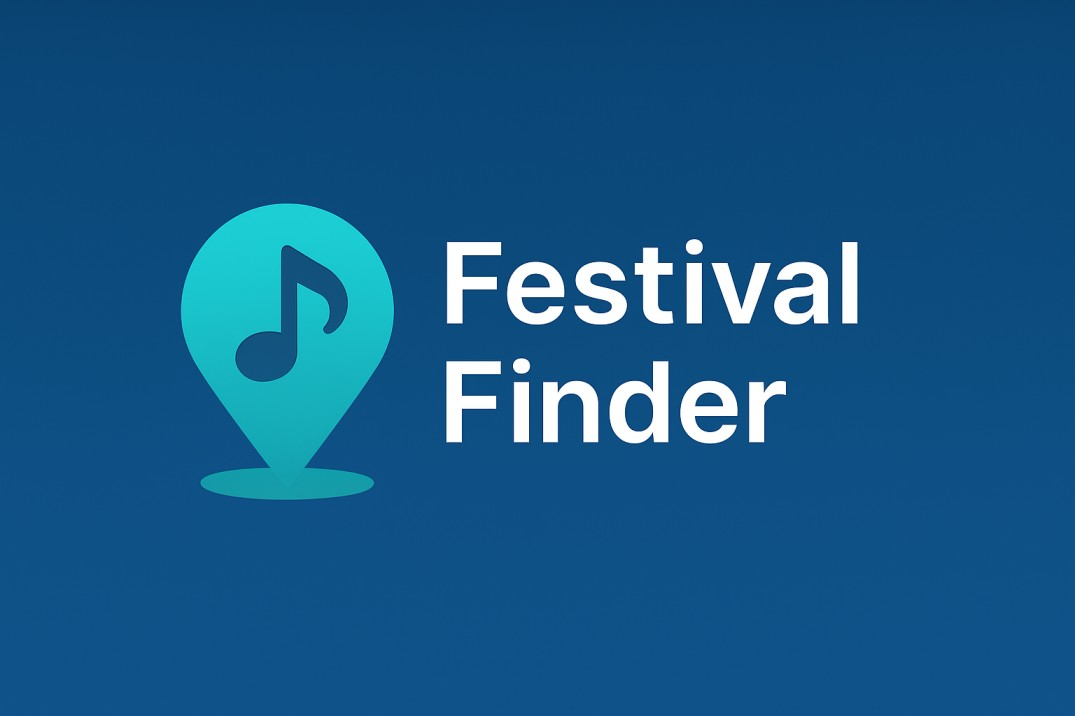
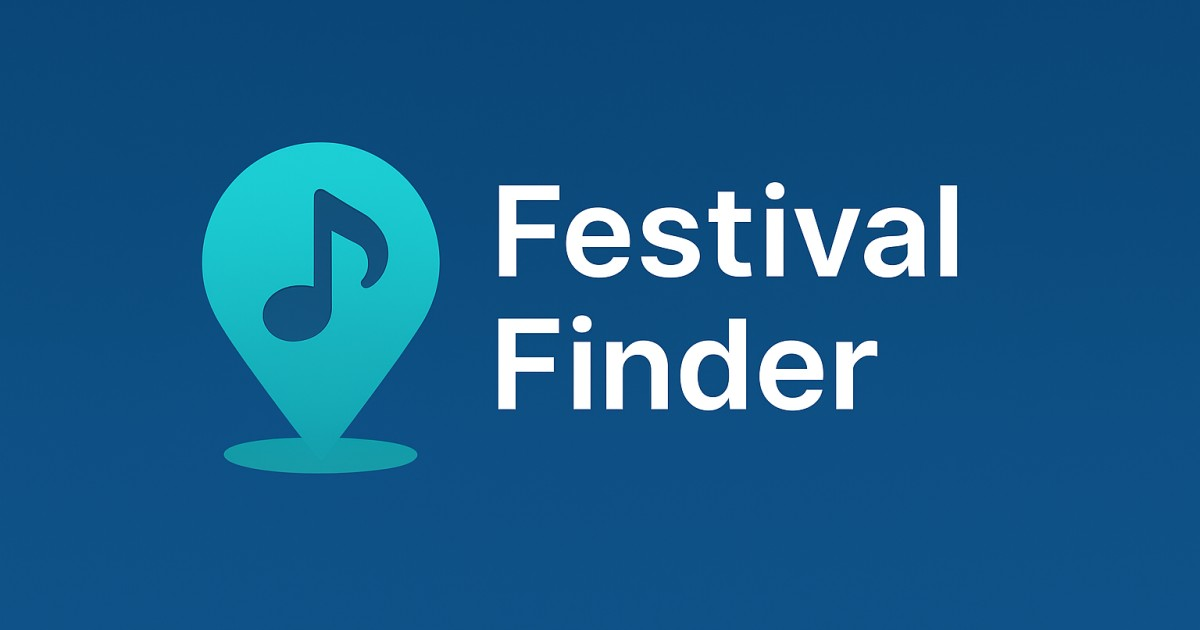
update meta tasg

diff --git a/scripts/set_meta_tags.py b/scripts/set_meta_tags.py
@@ -13,7 +13,10 @@ NEW_TITLE = """
     <meta property="og:url" content="https://saschaniemann.com/festival-finder/">
     <meta property="og:title" content="Festival Finder">
     <meta property="og:description" content="Festival Finder is a Streamlit app that helps you find music festivals based on your preferences.">
-    <meta property="og:image:secure_url" content="https://saschaniemann.com/festival-finder/app/static/og_image.jpg">
+    <meta property="og:image" content="https://saschaniemann.com/festival-finder/app/static/og_image.jpg">
+    <meta property="og:image:type" content="image/jpeg" />
+    <meta property="og:image:width" content="1200" />
+    <meta property="og:image:height" content="630" />
     <meta property="twitter:card" content="Festival Finder is a Streamlit app that helps you find music festivals based on your preferences.">
     <meta property="twitter:url" content="https://saschaniemann.com/festival-finder/">
     <meta property="twitter:title" content="Festival Finder">
